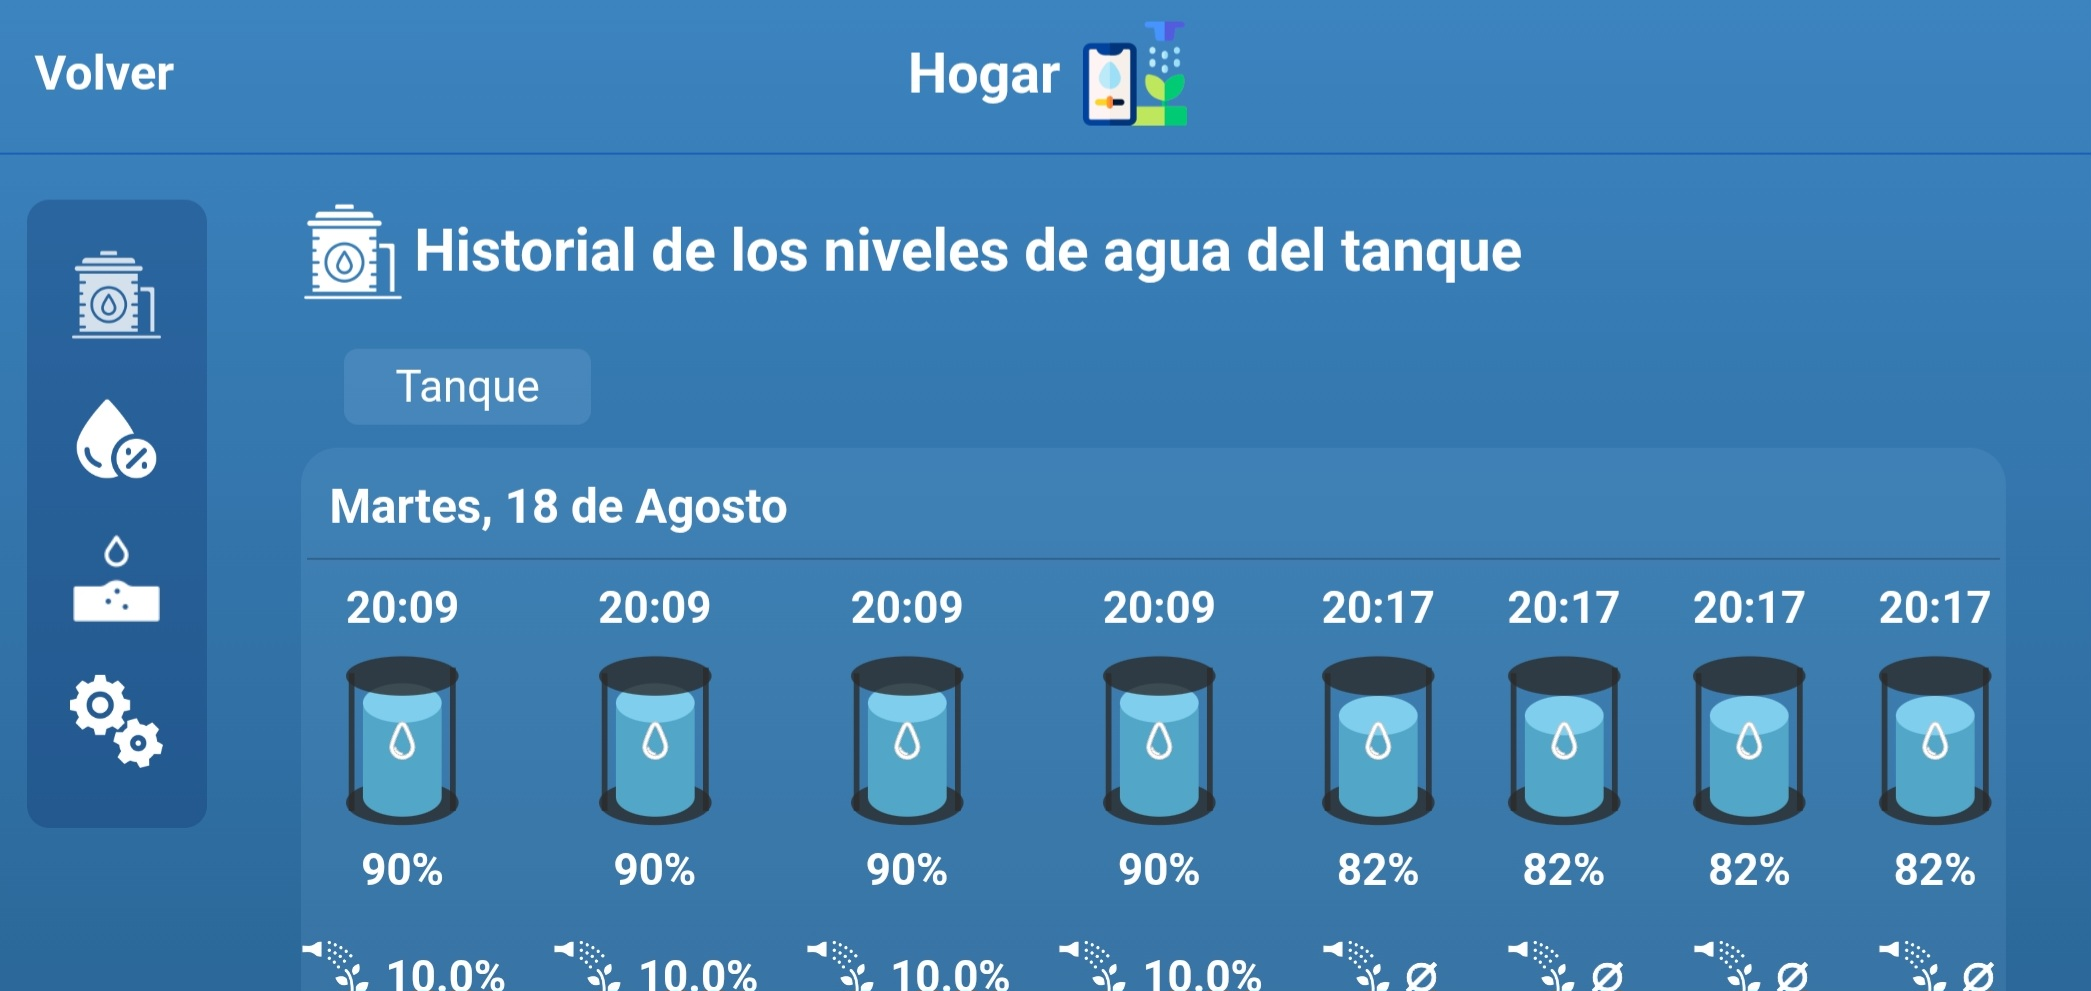
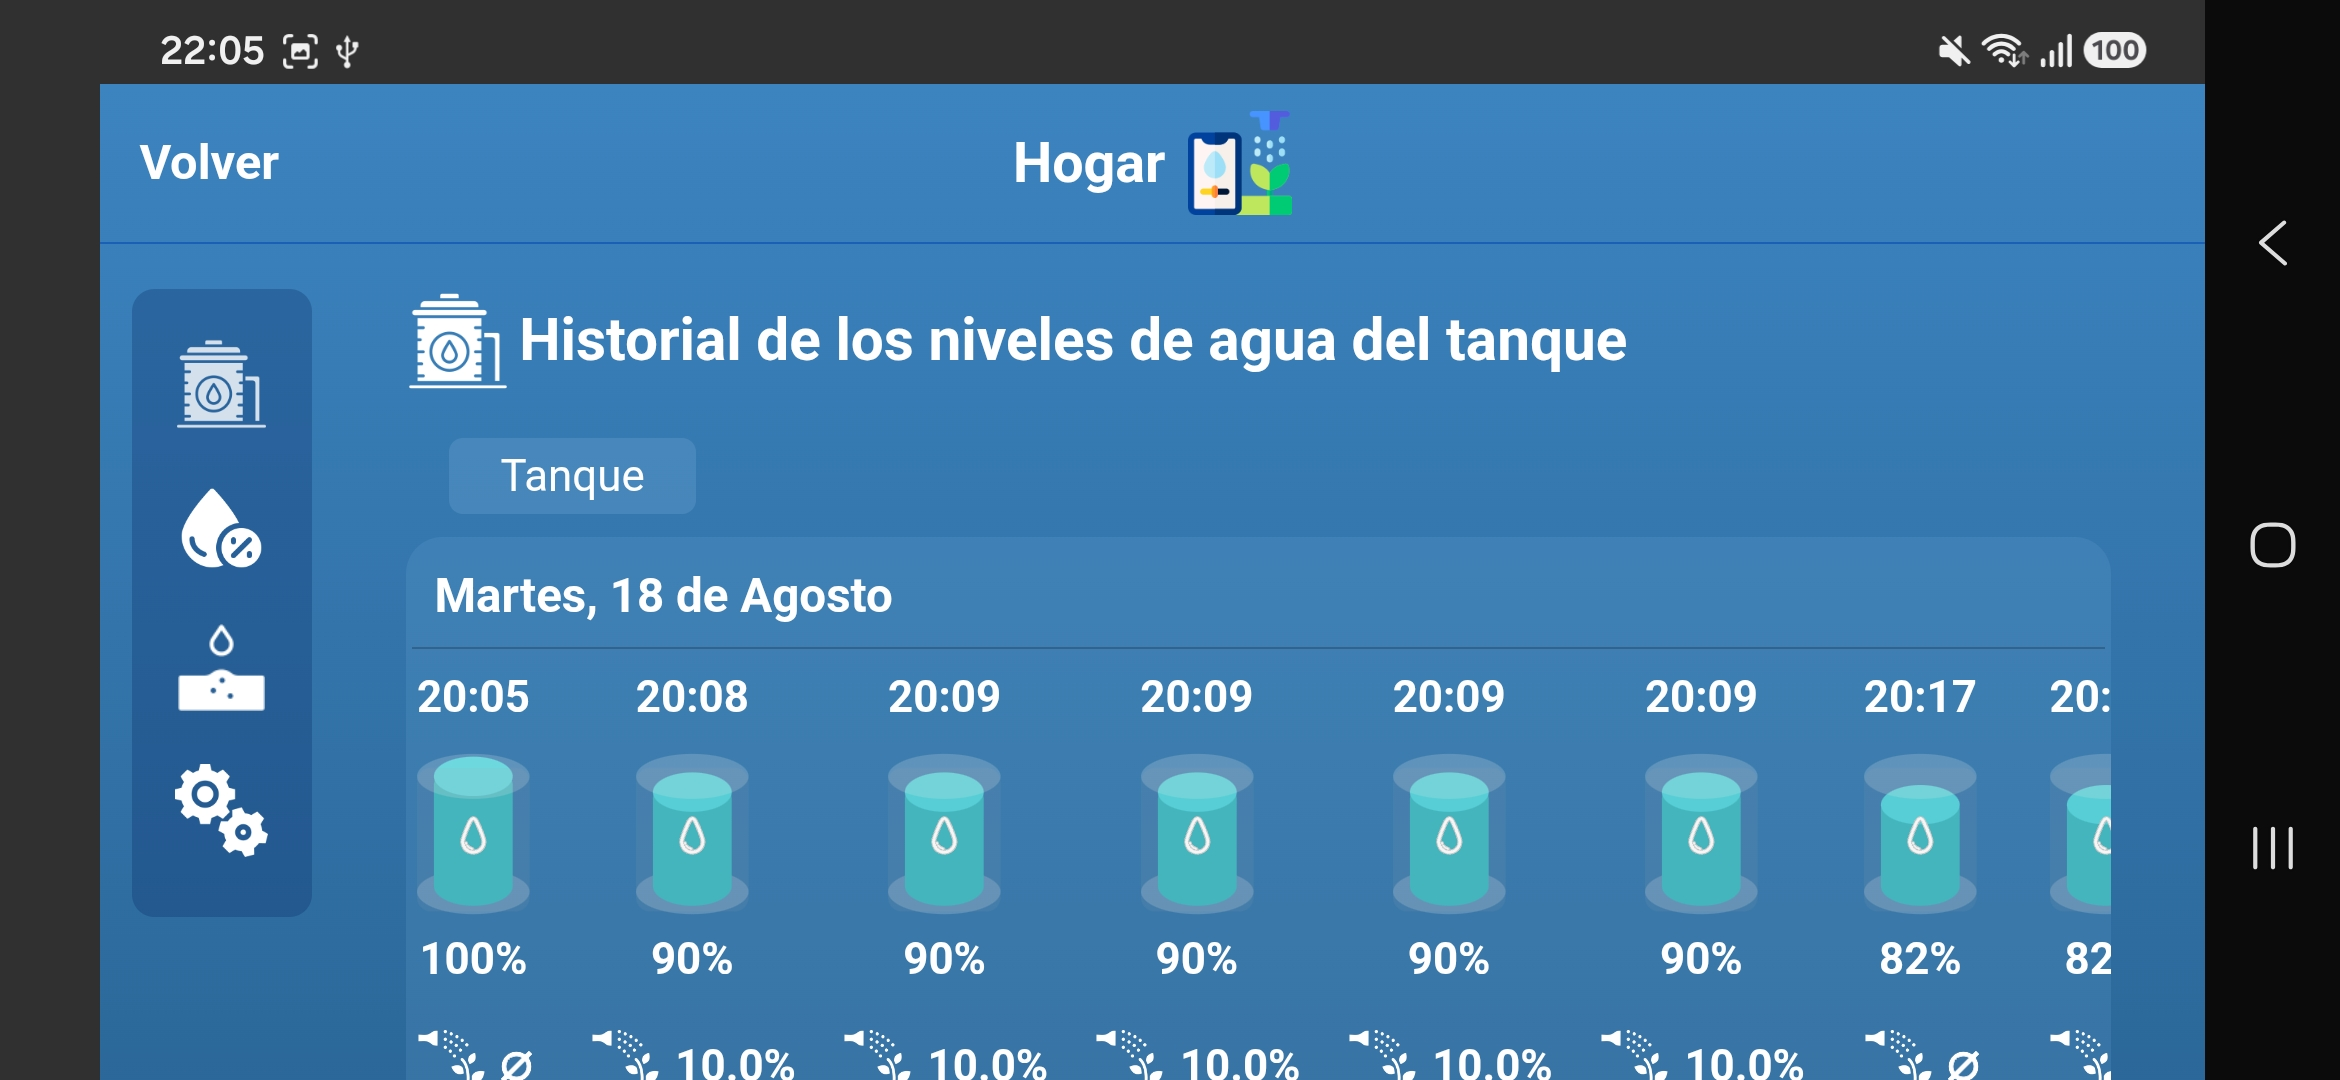
readme.md updated

diff --git a/frontend/src/contexts/MqttContext.jsx b/frontend/src/contexts/MqttContext.jsx
@@ -11,6 +11,7 @@ export const MqttProvider = ({ children }) => {
     mqtt.connect(mqttUrlBroker, {
       username: brokerUsername,
       password: brokerPassword,
+      reconnectPeriod: 1000,
     }),
   );
 
@@ -23,20 +24,9 @@ export const MqttProvider = ({ children }) => {
 
     mqttClient.on("error", (error) => {
       console.log(error);
-      mqttClient.end();
+      setMqttClient(mqttClient.reconnect());
     });
-
-    if (mqttClient.disconnected) connect();
   }, [mqttClient]);
-
-  const connect = async () => {
-    const connection = mqtt.connect(mqttUrlBroker, {
-      username: brokerUsername,
-      password: brokerPassword,
-    });
-
-    setMqttClient(connection);
-  };
 
   return (
     <MqttContext.Provider value={{ mqttClient }}>
